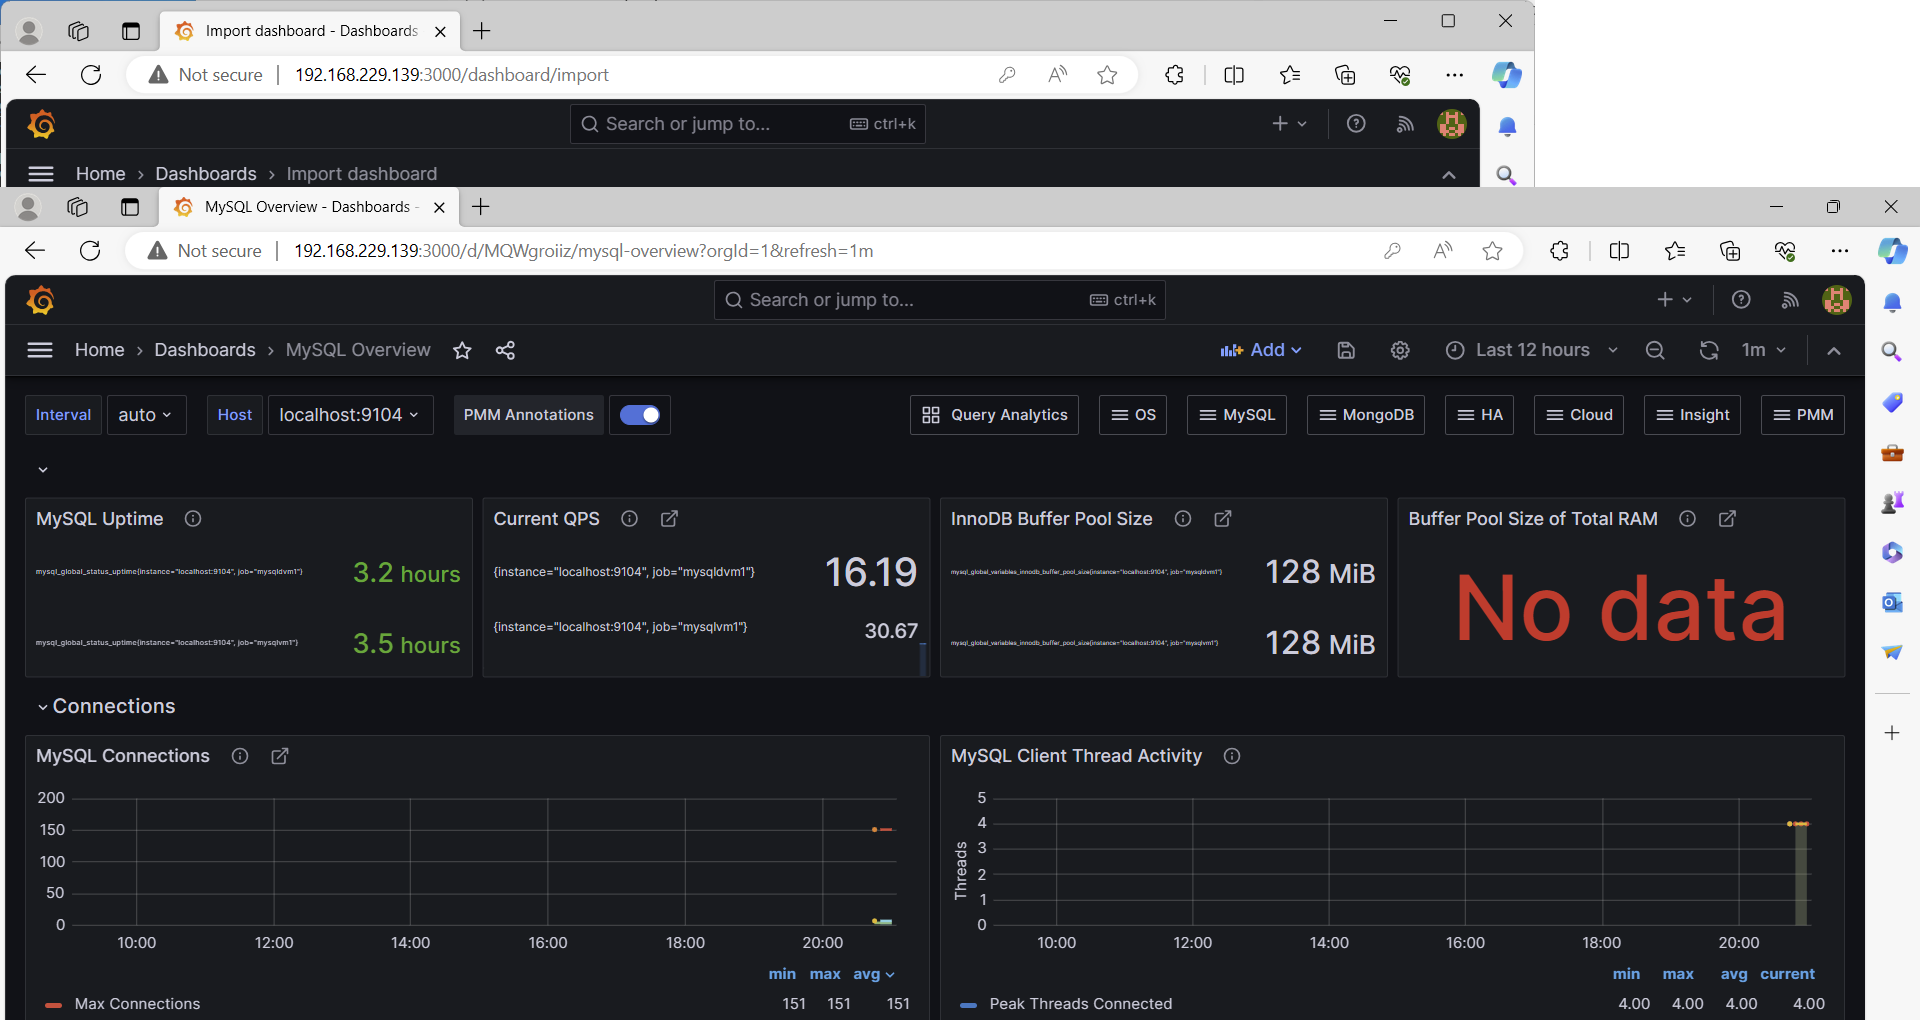
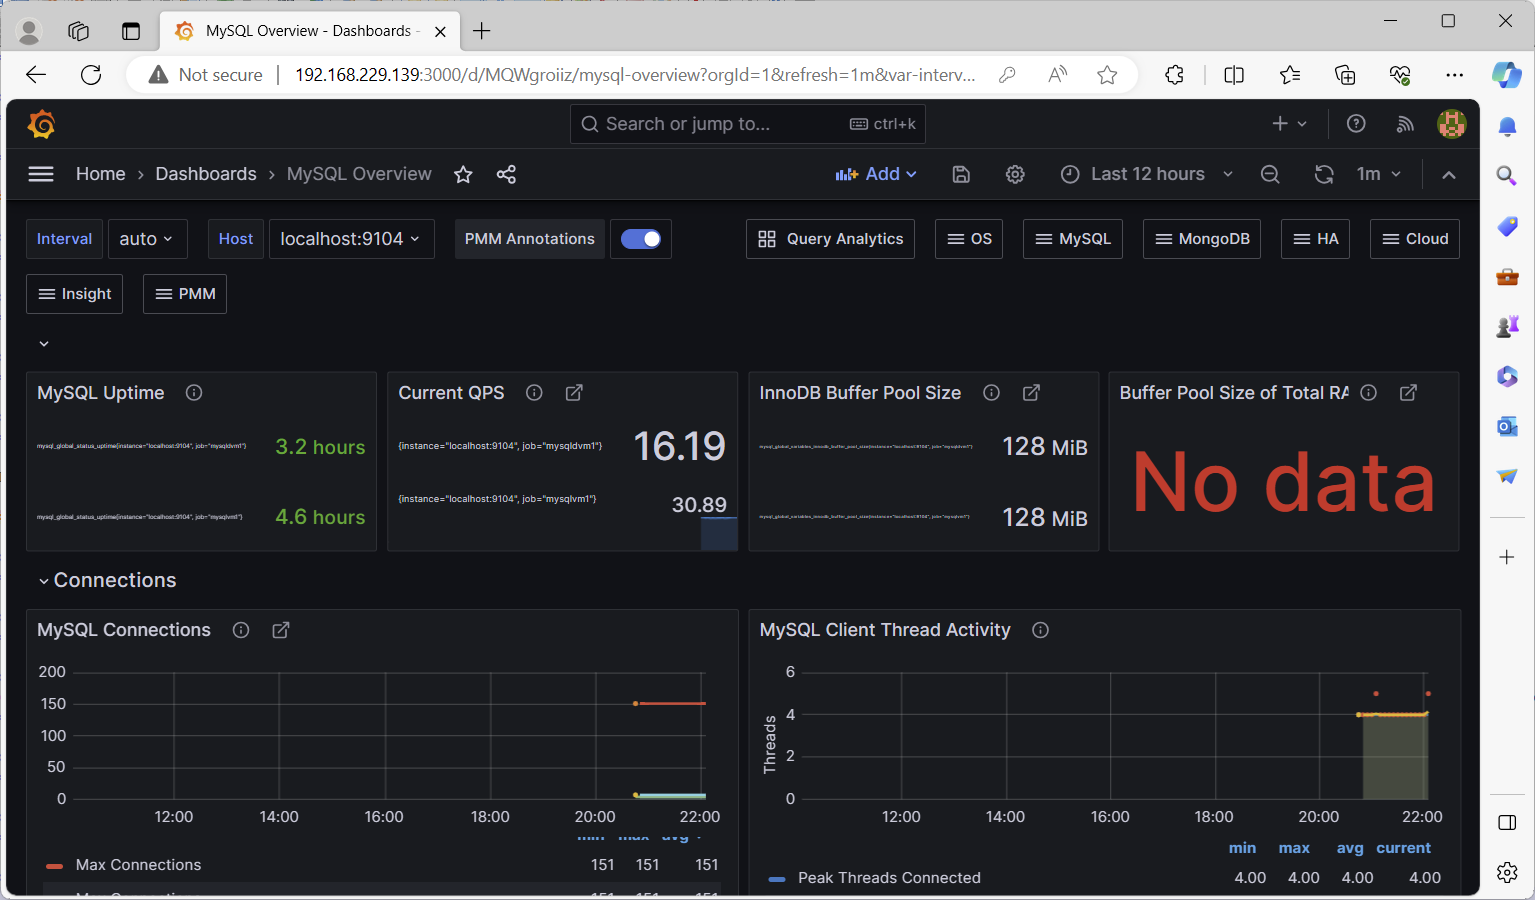
Final Upload

diff --git a/grafana-prometheus-mysql/README.md b/grafana-prometheus-mysql/README.md
@@ -102,6 +102,8 @@ Now lets test if its running. Grafana uses 3000 port so obtaining the server ip 
 When you provide default password it may request you to change the password, which you can or skip it but i have changed it in my case and the initial dashboard look like below:
 <img src="imgs/grafana-login.png" alt="Grafana Initial Dashboard"> 
 
+<hr >
+
 ### Install and configure Prometheus
 
 > - To configure Prometheus we will need to download the [Prometheus Binaries](https://prometheus.io/download/). We will be using Linux compatible binaries.
@@ -297,6 +299,8 @@ Dec 23 18:26:28 watchsrv.localdomain prometheus[4661]: ts=2023-12-23T12:41:28.4>
 ```
 > - Once the setup is complete, you can access the Prometheus UI by logging in to http:/<Server Name/Server IP>/:9090, as below.
 <img src="imgs/prometheus-initial.png" alt="Grafana Initial User Interface"> 
+
+<hr >
 
 ### Installing & Configuring MySQL Prometheus Exporter
 
@@ -687,4 +691,24 @@ Dec 23 20:44:50 watchsrv.localdomain prometheus[7474]: ts=2023-12-23T14:59:50.7>
 
 Thats it data source addition to Grafana is completed.
 
+<hr >
+
 ### Build MySQL Dashboard
+
+> - Login to Grafana and click on dashboards as below:
+<img src="imgs/dashboard-2.png" alt="Data Source 1"> 
+
+> - Click on Import Dashboard:
+<img src="imgs/dashboard-3.png" alt="Data Source 1"> 
+
+> - We will used the default one provided by Grafana. Hence go to Grafana site for [Mysql Overview Dashboard](https://grafana.com/grafana/dashboards/7362-mysql-overview/?tab=revisions) and click on Copy ID to Clipboard as i have already clicked so it's showing copied.
+<img src="imgs/dashboard-1.png" alt="Data Source 1"> 
+
+> - Paste the copied id as below:
+<img src="imgs/dashboard-4.png" alt="Data Source 1"> 
+
+> - Select Prometheus and click on import
+<img src="imgs/dashboard-5.png" alt="Data Source 1">
+
+> - Your Dashboard will load as below:
+<img src="imgs/dashboard-6.png" alt="Data Source 1">
